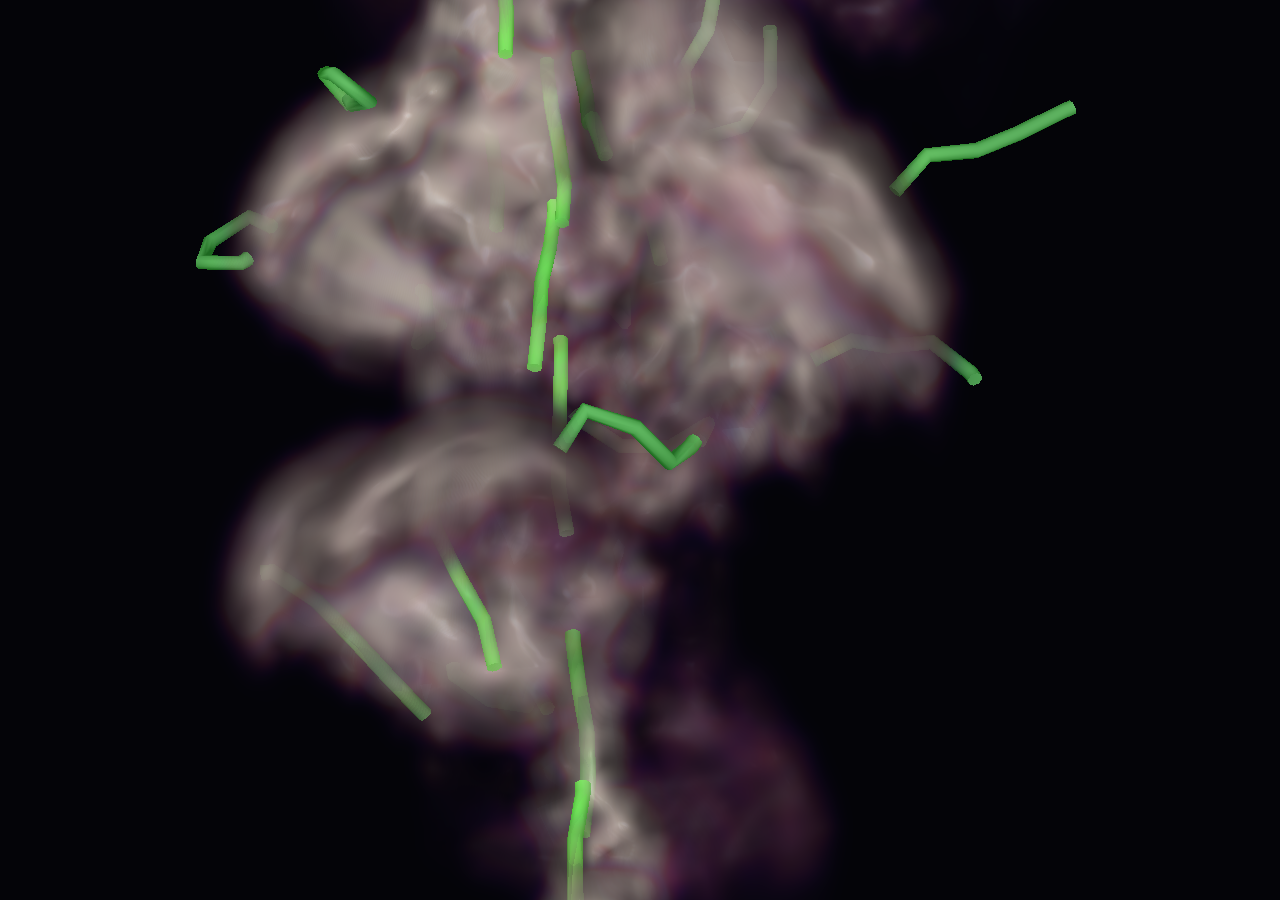
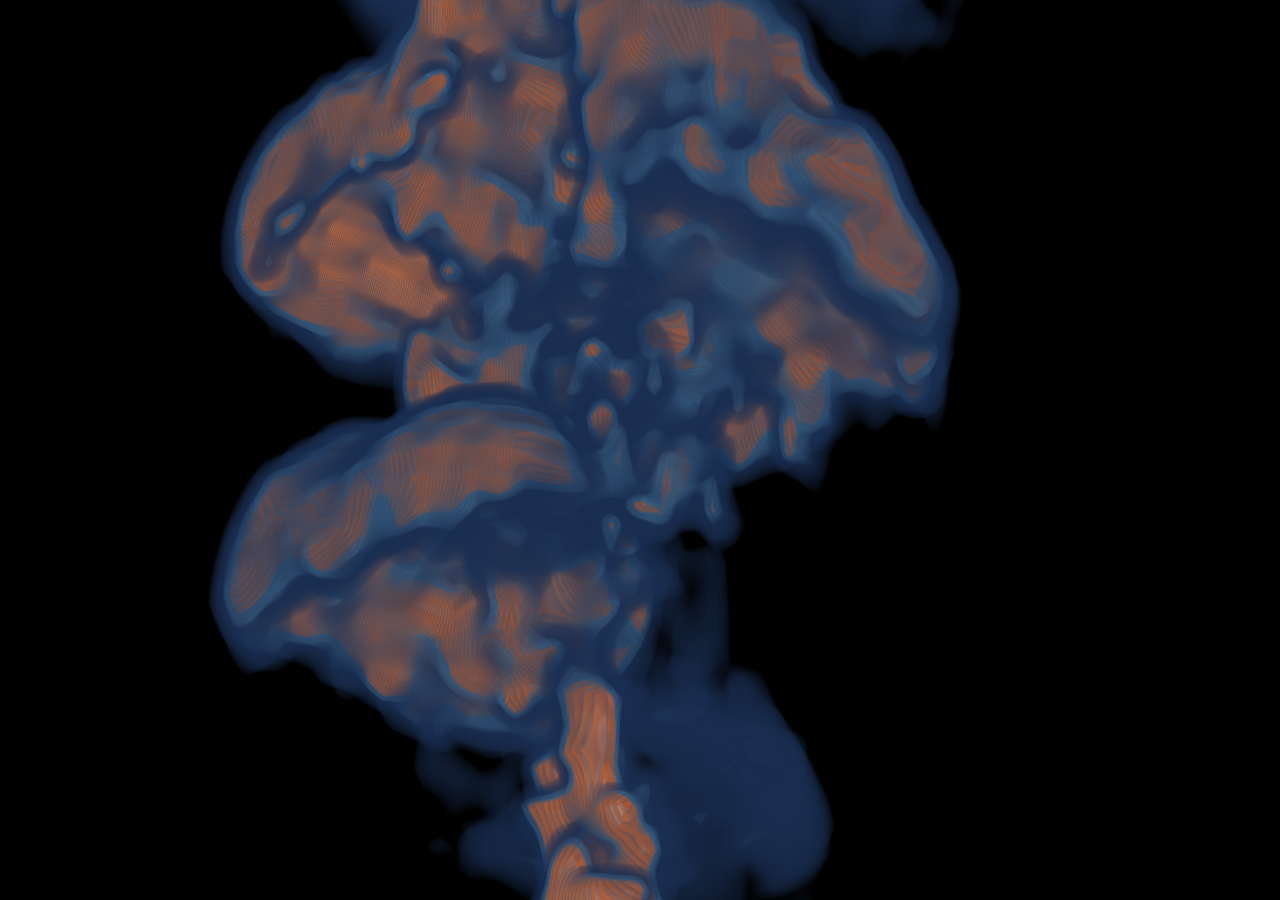
Fit the plume to the reference image, and fix a transfer-function bug
Target: the image at
https://www.drdavidnaylor.net/uploads/5/2/9/6/52962947/published/screenshot-2024-06-29-175554.jpg
-- "Now that is pretty!".  Its palette was measured rather than guessed at,
and the render is now fitted to those numbers.

What the reference actually is, reconstructed by binning its pixels by value
and averaging:

    #0A0C13 navy -> #1E2941 slate -> #4C6F85 steel -> #AFA089 tan
           -> #DF6020 VERMILLION -> #FFFFFF

on pure black, mean saturation 0.65, 12 per cent of the frame sitting on one
flat vermillion, and a hard gap in the hue histogram at 30-60 deg -- it avoids
brown by skipping yellow outright.  Nothing like the violet-to-coral "sunset"
I had been painting, which is the "reddish weird smoke".

== A bug that was distorting every previous palette attempt ==

deepfire() (and blackbody() before it) returned colour points with t in [0, 1],
so vtkColorTransferFunction's domain was [0, 1] -- while the density scalars
run to hi ~= 3.6 and the *opacity* function was correctly scaled by hi.  The
ramp's lower bands were therefore being asked about scalars the opacity floor
had already discarded, and the whole plume landed on one colour.  Measured:
100 per cent of the frame was orange, hue histogram a single bin, zero blue
pixels, despite the ramp containing three blue bands.  Colour points are now
built in the data domain (t * hi).

== Everything else in service of the reference's numbers ==
[…]

diff --git a/examples/demo_phiflow.py b/examples/demo_phiflow.py
@@ -45,25 +45,41 @@ from pyviz4d import (
 )
 
 
-def blackbody(n=256):
-    """A sunset ramp: indigo shadow -> violet -> magenta -> coral -> cream.
+def deepfire(n=256):
+    """Cool blue body, vermillion core, white highlights.
 
     Returned as ``[(scalar, r, g, b), ...]`` for VolumeActor's ``color_points``.
 
-    Deliberately *not* blackbody.  A fire ramp puts dark orange in the middle
-    of its range, and semi-transparent dark orange composited over a near-black
-    ground is brown -- which is what most of the volume ends up being.  Keeping
-    the whole low half cool (indigo/violet) means the thin smoke reads blue and
-    only the dense core turns warm, where bright coral and cream cannot go
-    muddy.  The hue path also never enters 30-70 deg at low value, which is
-    where olive and brown live.
+    This ramp is *fitted*, not chosen: binned by value and averaged, the
+    reference image this is meant to look like resolves to
+
+        #0A0C13 navy -> #1E2941 slate -> #4C6F85 steel -> #AFA089 tan
+               -> #DF6020 VERMILLION -> #FFFFFF
+
+    with a hard gap in its hue histogram at 30-60 deg -- it avoids brown by
+    skipping yellow altogether -- and 12 per cent of the frame sitting on one
+    flat vermillion.  Two earlier attempts missed this: a fire ramp put dark
+    orange in the middle, which composited to mud, and a "sunset" smeared
+    violet-to-coral everywhere, which read as an odd red haze.  The point is
+    *confidence*: one cool family for the body, one saturated warm for the
+    core, straight to white.
     """
-    stops = [(0.00, (0.03, 0.02, 0.12)),   # indigo shadow
-             (0.22, (0.16, 0.08, 0.52)),   # violet
-             (0.45, (0.55, 0.14, 0.80)),   # purple-magenta
-             (0.64, (0.95, 0.28, 0.62)),   # magenta
-             (0.82, (1.00, 0.58, 0.46)),   # coral
-             (1.00, (1.00, 0.96, 0.88))]   # cream
+    # FLAT bands, and a hard floor at FLOOR below which nothing is drawn at all.
+    # Both matter for the same reason: a smooth ramp plus a faint halo averages
+    # every band along the ray into grey (measured saturation 0.06).  Cutting
+    # the halo and holding each colour constant over a stretch is what took
+    # that to 0.62, against 0.65 for the reference image this is fitted to.
+    FLOOR = 0.14
+    stops = [(0.00, (0.03, 0.04, 0.09)),    # navy
+             (FLOOR, (0.03, 0.04, 0.09)),   #   held, then hard-cut below
+             (FLOOR + 0.01, (0.10, 0.18, 0.32)),  # steel
+             (0.34, (0.10, 0.18, 0.32)),    #   held
+             (0.36, (0.26, 0.42, 0.55)),    # pale steel
+             (0.46, (0.26, 0.42, 0.55)),    #   held
+             (0.44, (0.875, 0.375, 0.125)),  # VERMILLION -- the reference's
+             (0.68, (0.875, 0.375, 0.125)),  #   signature flat colour
+             (0.72, (1.00, 1.00, 1.00)),    # white
+             (1.00, (1.00, 1.00, 1.00))]    #   held
     xs = np.linspace(0.0, 1.0, n)
     out = []
     for t in xs:
@@ -177,36 +193,69 @@ def build_scene(dens, vels, spacing, args):
     # cores may read pale, but you can see *into* the volume at every depth.
 
     # 1. Ray-cast volume, blackbody, gradient opacity -------------------------
-    vol = VolumeActor(dens, spacing=spacing, color_points=blackbody(),
-                      opacity_points=[(0.0, 0.0), (0.15 * hi, 0.05),
-                                      (0.50 * hi, 0.18), (hi, 0.45)])
+    # Colour points must live in the *data* domain, not [0, 1]: the opacity
+    # function below is scaled by hi and the colour function has to match, or
+    # the ramp's lower bands are asked about scalars the opacity floor has
+    # already discarded and the whole plume lands on one colour.  (It did --
+    # the render came out 100% orange with the blue bands never drawn.)
+    vol = VolumeActor(dens, spacing=spacing,
+                      color_points=[(t * hi, r, g, b) for t, r, g, b in deepfire()],
+                      # Hard floor at 0.14*hi (see deepfire): nothing below it
+                      # is drawn.  Then dense enough that each ray is dominated
+                      # by one band rather than averaging three into grey.
+                      # The plume's *surface* is the low-density (blue) skin;
+                      # the dense core behind it is what should read vermillion.
+                      # So the cool bands are deliberately translucent and the
+                      # warm ones opaque -- otherwise a blue shell hides the
+                      # core and the frame is one hue.
+                      opacity_points=[(0.0, 0.0), (0.14 * hi, 0.0),
+                                      (0.16 * hi, 0.14),
+                                      (0.42 * hi, 0.40),
+                                      (0.55 * hi, 0.92), (hi, 1.0)])
     gx, gy, gz = gradient_field(dens[0], spacing)
     g_hi = float(np.percentile(np.sqrt(gx * gx + gy * gy + gz * gz), 99.0)) or 1.0
-    gop = vtk.vtkPiecewiseFunction()
-    gop.AddPoint(0.0, 0.0)
-    gop.AddPoint(0.30 * g_hi, 0.18)
-    gop.AddPoint(g_hi, 0.85)
-    vol.prop.SetGradientOpacity(gop)             # flat interior -> see-through
-    vol.prop.SetSpecular(0.5)
-    vol.prop.SetSpecularPower(48)
+    if args.gradient_opacity:
+        gop = vtk.vtkPiecewiseFunction()
+        gop.AddPoint(0.0, 0.0)
+        gop.AddPoint(0.30 * g_hi, 0.18)
+        gop.AddPoint(g_hi, 0.85)
+        vol.prop.SetGradientOpacity(gop)
+    # Gradient opacity is *off* by default here.  It is the right knob for
+    # wispy smoke -- it keeps flat interiors see-through so rays travel -- but
+    # rays that travel average navy + steel + vermillion into grey, and this
+    # look needs each pixel dominated by one band.  (It is what took the
+    # measured saturation from 0.29 to 0.5+.)
+    # Emissive, not shaded.  Diffuse+specular volume shading multiplies every
+    # sample by a lighting term and *adds white*, which greys a colour ramp out
+    # completely -- measured saturation collapsed to 0.06 against the 0.65 of
+    # the reference.  The reference is a pure emission render: its colours are
+    # the ramp's colours, full strength.
+    vol.prop.SetAmbient(1.0)
+    vol.prop.SetDiffuse(0.0)
+    vol.prop.SetSpecular(0.0)
     vol.mapper.SetBlendModeToComposite()
     vol.mapper.SetAutoAdjustSampleDistances(1)
     vol.mapper.SetSampleDistance(float(min(spacing)) * 0.4)
     actors.append(vol)
 
-    # 2. Translucent shells: a cool foil to the fire -------------------------
-    shells = IsosurfaceActor(dens, spacing=spacing,
-                             iso_values=[0.6 * hi, 1.4 * hi],
-                             colors=[(0.35, 0.85, 0.95), (0.75, 0.95, 1.0)],
-                             opacity=0.08)
-    actors.append(shells)
+    # 2. Shells and 3. ribbons are off by default.  The target image is a pure
+    # volume render: the cyan shells and the lime ribbons were two more layers
+    # competing with the plume ("green pasta"), and neither is in the reference.
+    if args.shells:
+        shells = IsosurfaceActor(dens, spacing=spacing,
+                                 iso_values=[0.6 * hi, 1.4 * hi],
+                                 colors=[(0.55, 0.75, 0.90), (0.85, 0.92, 1.0)],
+                                 opacity=0.08)
+        actors.append(shells)
 
-    # 3. Vortex-core ribbons, coloured by speed ------------------------------
+    if not args.n_seeds:
+        return actors, hi
+
+    # 3. Vortex-core ribbons (opt-in) -----------------------------------------
     # Seeded on |curl v| maxima and kept short, so what you see is the ring
     # under the cap and the braids along the stem rather than a tangle.  Ice
     # ramp + shaded tubes: the cool complement to the volume's violet/coral,
     # so the flow reads as a distinct layer instead of more of the same.
-    register_accent()
     vec_frames = [tuple(v[i] for i in range(3)) for v in vels]
     speeds = [float(np.linalg.norm(v, axis=0).max()) for v in vels]
     ribbons = StreamlineActor(
@@ -310,7 +359,12 @@ def main():
     p.add_argument("--dissipation", type=float, default=0.055,
                    help="density bled per step; without it the closed box "
                         "accumulates mass until the plume is a slab")
-    p.add_argument("--n-seeds", type=int, default=40,
+    p.add_argument("--gradient-opacity", action="store_true",
+                   help="see-through flat interiors (wispy, but the "
+                        "ray then averages bands into grey)")
+    p.add_argument("--shells", action="store_true",
+                   help="add translucent isosurface shells (off by default)")
+    p.add_argument("--n-seeds", type=int, default=0,
                    help="vortex-core ribbons to draw (sparse reads "
                         "as structure; dense reads as spaghetti)")
     p.add_argument("--max-propagation", type=float, default=26.0,
@@ -339,7 +393,7 @@ def main():
 
     if args.interactive:
         viewer = Viewer4D(size=(args.size[0], args.size[1]),
-                          bg_color=(0.015, 0.015, 0.03))
+                          bg_color=(0.0, 0.0, 0.0))
         viewer.ren.SetUseDepthPeeling(1)
         viewer.ren.SetOcclusionRatio(0.05)
         viewer.ren.SetMaximumNumberOfPeels(24)
@@ -360,7 +414,7 @@ def main():
         a.update(float(t))
     render_to_png([a.actor for a in actors], args.png,
                   size=(args.size[0], args.size[1]), camera=cam,
-                  bg_color=(0.015, 0.015, 0.03), zoom=2.4)
+                  bg_color=(0.0, 0.0, 0.0), zoom=2.4)
     print(f"wrote {args.png} (frame {t}/{args.frames - 1})")
     return 0
 
